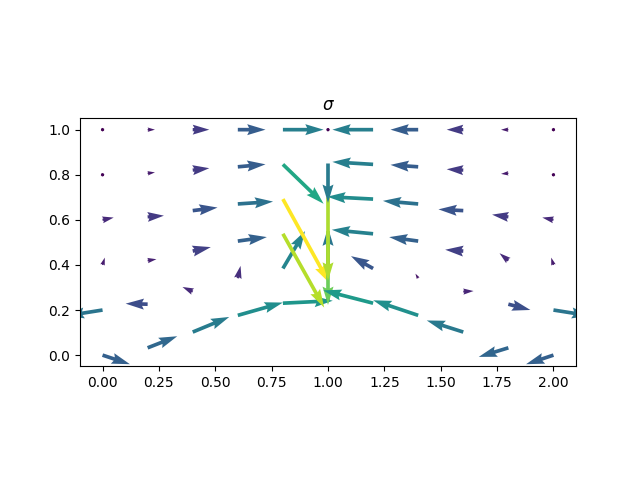
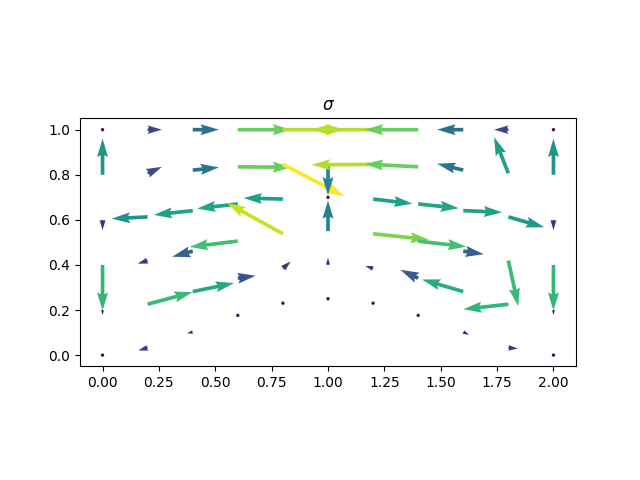
apadpted linesmoother

diff --git a/Scripts/Convergence.py b/Scripts/Convergence.py
@@ -19,16 +19,22 @@ def SolveHelmholtzIdentityHybrid (NumberNodesX, NumberNodesY):
 
     ############## function spaces ################################################################
 
-    element = FiniteElement("RTCF", cell="quadrilateral", degree=1)
-    element._mapping = 'identity'
-    Sigma = FunctionSpace(mesh, element)
-    V = FunctionSpace(mesh, "DG", 0)
+    CG_1 = FiniteElement("CG", interval, 1)
+    DG_0 = FiniteElement("DG", interval, 0)
+    P1P0 = TensorProductElement(CG_1, DG_0)
+    RT_horiz = HDivElement(P1P0)
+    RT_horiz_broken = BrokenElement(RT_horiz)
+    P0P1 = TensorProductElement(DG_0, CG_1)
+    RT_vert = HDivElement(P0P1)
+    RT_vert_broken = BrokenElement(RT_vert)
+    full = EnrichedElement(RT_horiz_broken, RT_vert_broken)
+    Sigma = FunctionSpace(mesh, full)
+    remapped = WithMapping(full, "identity")
+    Sigmahat = FunctionSpace(mesh, remapped)
 
-    ########################## set up problem ####################################################
-
-    Sigmahat = FunctionSpace(mesh, BrokenElement(Sigma.ufl_element()))  # do I need broken element here??
-    V = FunctionSpace(mesh, V.ufl_element())
+    V = FunctionSpace(mesh, "DQ", 0)
     T = FunctionSpace(mesh, FiniteElement("HDiv Trace", mesh.ufl_cell(), degree=0))
+
     W_hybrid = Sigmahat * V * T
 
     n = FacetNormal(mesh)
@@ -87,6 +93,97 @@ def SolveHelmholtzIdentityHybrid (NumberNodesX, NumberNodesY):
 
 
 
+
+def SolveHelmholtzIdentityHybridBrokenVert (NumberNodesX, NumberNodesY):
+
+
+    ################### mesh #####################################################################
+
+    m = IntervalMesh(NumberNodesX,2)
+    mesh = ExtrudedMesh(m, NumberNodesY, extrusion_type='uniform')
+
+    Vc = mesh.coordinates.function_space()
+    x, y = SpatialCoordinate(mesh)
+    f = Function(Vc).interpolate(as_vector([x, y + ( 0.25 * x**4 -x**3 + x**2) * (1-y) ] ) )
+    mesh.coordinates.assign(f)
+
+    ############## function spaces ################################################################
+
+    CG_1 = FiniteElement("CG", interval, 1)
+    DG_0 = FiniteElement("DG", interval, 0)
+    P1P0 = TensorProductElement(CG_1, DG_0)
+    RT_horiz = HDivElement(P1P0)
+    RT_horiz_broken = BrokenElement(RT_horiz)
+    P0P1 = TensorProductElement(DG_0, CG_1)
+    RT_vert = HDivElement(P0P1)
+    RT_vert_broken = BrokenElement(RT_vert)
+    full = EnrichedElement(RT_horiz, RT_vert_broken)
+    Sigma = FunctionSpace(mesh, full)
+    remapped = WithMapping(full, "identity")
+    Sigmahat = FunctionSpace(mesh, remapped)
+
+    V = FunctionSpace(mesh, "DQ", 0)
+    T = FunctionSpace(mesh, P0P1)
+    #T = FunctionSpace(mesh, FiniteElement("HDiv Trace", mesh.ufl_cell(), degree=0))
+
+    W_hybrid = Sigmahat * V * T
+
+    n = FacetNormal(mesh)
+
+    sigmahat, uhat, lambdar = TrialFunctions(W_hybrid)
+    tauhat, vhat, gammar = TestFunctions(W_hybrid)
+
+    wh = Function(W_hybrid)
+
+    #f = 10 * exp(-100 * ((x - 1) ** 2 + (y - 0.5) ** 2))
+
+    uexact = cos(2* pi * x) * cos(2 * pi * y)
+    sigmaexact = -2* pi * as_vector((sin(2*pi*x)*cos(2*pi*y), cos(2*pi*x)*sin(2*pi*y)))
+    f = (1 + 8*pi*pi) * uexact
+
+    bc0 = DirichletBC(W_hybrid.sub(0), sigmaexact, 1)
+    bc1 = DirichletBC(W_hybrid.sub(0), sigmaexact, 2)
+
+    a_hybrid_Identity_BrokenVert = (inner(sigmahat, tauhat) * dx + div(tauhat) * uhat * dx
+                                    - div(sigmahat) * vhat * dx + vhat * uhat * dx
+                                    + inner(tauhat, n) * lambdar * (ds_b + ds_t)
+                                    + inner(sigmahat, n) * gammar * (ds_b + ds_t)
+                                    - inner(sigmaexact, n) * gammar * (ds_b(degree=(5, 5)) + ds_t(degree=(5, 5)))
+                                    + jump(tauhat, n=n) * lambdar('+') * (dS_h)
+                                    + jump(sigmahat, n=n) * gammar('+') * (dS_h)
+                                    - f * vhat * dx(degree=(5, 5)))
+
+
+
+    ######################### solve ###############################################################
+
+    #will be the solution
+    wh = Function(W_hybrid)
+
+    #solve
+
+    scpc_parameters = {"ksp_type": "preonly", "pc_type": "lu"}
+    parameters = {"pc_type": "lu", "pc_factor_mat_solver_type": "mumps", "ksp_type": "preonly"}
+
+    solve(lhs(a_hybrid_Identity_BrokenVert) == rhs(a_hybrid_Identity_BrokenVert), wh, solver_parameters=parameters, bcs=[bc0, bc1])
+    sigmah, uh, lamdah = wh.split()
+
+    sigmaexact = Function(Sigmahat, name = "sigmaexact").project(sigmaexact)
+    uexact = Function(V, name = "Uexact").project(uexact)
+
+    #file2 = File("Conv.pvd")
+    #file2.write(sigmah, sigmaexact, uh, uexact)
+
+    fig, axes = plt.subplots()
+    quiver(sigmah, axes=axes)
+    axes.set_aspect("equal")
+    axes.set_title("$\sigma$")
+    fig.savefig("../Results/sigma_"+str(NumberNodesY)+".png")
+
+    return (uh, mesh, V, Sigmahat)
+
+
+
 ####################################################################################################################
 
 
@@ -99,9 +196,9 @@ errorsL2Proj = []
 errorsL2 = []
 
 
-for count in range(0,8):
+for count in range(0,7):
 
-    u_curr, mesh_curr, V_curr, Sigma_curr = SolveHelmholtzIdentityHybrid(NumberX, NumberY)
+    u_curr, mesh_curr, V_curr, Sigma_curr = SolveHelmholtzIdentityHybridBrokenVert(NumberX, NumberY)
 
     x, y = SpatialCoordinate(mesh_curr)
     uexact = cos(2 * pi * x) * cos(2 * pi * y)
@@ -141,3 +238,5 @@ plt.loglog(meshSizeList, meshSizeList, axes = axes, color = "red", label = "h", 
 axes.legend()
 fig.savefig("../Results/errors.png")
 plt.show()
+
+K

diff --git a/Scripts/thin domain.py b/Scripts/thin domain.py
@@ -1,13 +1,13 @@
 import matplotlib.pyplot as plt
 from firedrake import *
-import petsc4py.PETSc as PETSc
-PETSc.Sys.popErrorHandler()
+#import petsc4py.PETSc as PETSc
+#PETSc.Sys.popErrorHandler()
 
 
 ##############   define mesh ######################################################################
 
-m = IntervalMesh(10,2)
-mesh = ExtrudedMesh(m, 5, extrusion_type='uniform')
+m = IntervalMesh(10,1)
+mesh = ExtrudedMesh(m, 5, layer_height=0.01, extrusion_type='uniform')
 
 Vc = mesh.coordinates.function_space()
 x, y = SpatialCoordinate(mesh)
@@ -133,36 +133,38 @@ topleft_MG = {
     "mg_levels_patch_sub_ksp_type": "preonly",
     "mg_levels_patch_sub_pc_type": "lu",
 }
-sparameters["fieldsplit_0"] = topleft_LS
+sparameters["fieldsplit_0"] = topleft_LU
 
 
-constant = 1000.0
+for count in range(10):
 
-gamma = Constant(constant)
+    constant = 1000.0 + count*1000.0
 
-a = eqn_sigmahat(tauhat) + eqn_uhat(vhat) + eqn_lamda(gammar) + gamma * eqn_uhat(div(tauhat))
+    gamma = Constant(constant)
 
-a-=  f * vhat * dx(degree=(5, 5))
+    a = eqn_sigmahat(tauhat) + eqn_uhat(vhat) + eqn_lamda(gammar) + gamma * eqn_uhat(div(tauhat))
 
-bc0 = DirichletBC(W_hybrid.sub(0), sigmaexact, 1)
-bc1 = DirichletBC(W_hybrid.sub(0), sigmaexact, 2)
+    a-=  f * vhat * dx(degree=(5, 5))
+
+    bc0 = DirichletBC(W_hybrid.sub(0), sigmaexact, 1)
+    bc1 = DirichletBC(W_hybrid.sub(0), sigmaexact, 2)
 
 
-ctx = {"mu": 1/gamma}
+    ctx = {"mu": 1/gamma}
 
-prob = LinearVariationalProblem(lhs(a), rhs(a), wh, bcs = [bc0, bc1])
-solver = LinearVariationalSolver(prob, solver_parameters=sparameters, appctx = ctx)
+    prob = LinearVariationalProblem(lhs(a), rhs(a), wh, bcs = [bc0, bc1])
+    solver = LinearVariationalSolver(prob, solver_parameters=sparameters, appctx = ctx)
 
-solver.solve()
+    solver.solve()
 
-sigmah, uh, lamdah = wh.split()
+    sigmah, uh, lamdah = wh.split()
 
-fig, axes = plt.subplots()
-quiver(sigmah, axes=axes)
-axes.set_aspect("equal")
-axes.set_title("$\sigma$")
+    fig, axes = plt.subplots()
+    quiver(sigmah, axes=axes)
+    axes.set_aspect("equal")
+    axes.set_title("$\sigma$")
 
-fig.savefig("../Results/sigmaAugLagrangian_"+ str(constant) + ".png")
+    fig.savefig("../Results/sigmaAugLagrangian_"+ str(constant) + ".png")
 
-file = File("../Results/augmentedLagrangian.pvd")
-file.write(sigmah, uh)
+    file = File("../Results/augmentedLagrangian.pvd")
+    file.write(sigmah, uh)
